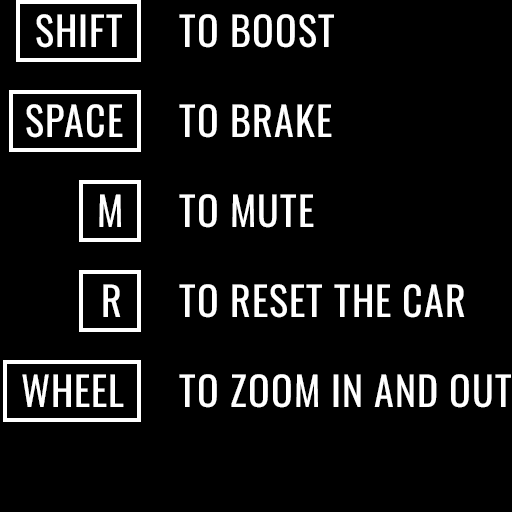
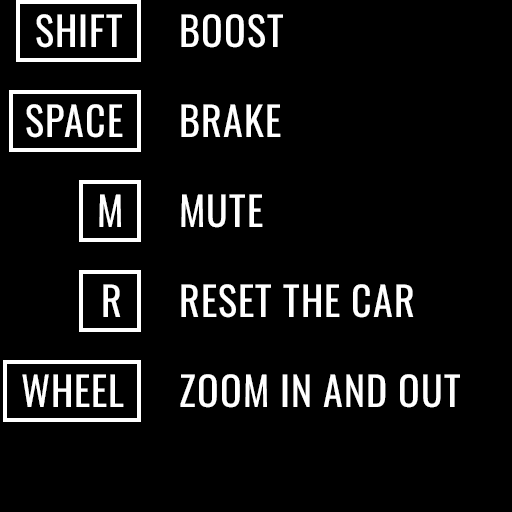
:sparkles: Intro > Other instructions > Add reveal and update text

diff --git a/src/javascript/World/Sections/IntroSection.js b/src/javascript/World/Sections/IntroSection.js
@@ -137,7 +137,7 @@ export default class IntroSection
         this.otherInstructions.label.texture.magFilter = THREE.NearestFilter
         this.otherInstructions.label.texture.minFilter = THREE.LinearFilter
 
-        this.otherInstructions.label.material = new THREE.MeshBasicMaterial({ transparent: true, alphaMap: this.otherInstructions.label.texture, color: 0xffffff, depthWrite: false })
+        this.otherInstructions.label.material = new THREE.MeshBasicMaterial({ transparent: true, alphaMap: this.otherInstructions.label.texture, color: 0xffffff, depthWrite: false, opacity: 0 })
 
         this.otherInstructions.label.mesh = new THREE.Mesh(this.otherInstructions.label.geometry, this.otherInstructions.label.material)
         this.otherInstructions.label.mesh.matrixAutoUpdate = false

diff --git a/src/javascript/World/index.js b/src/javascript/World/index.js
@@ -84,6 +84,7 @@ export default class
             TweenLite.fromTo(this.reveal, 3, { floorShadowsProgress: 0 }, { floorShadowsProgress: 1, delay: 0.5 })
             TweenLite.fromTo(this.shadows, 3, { alpha: 0 }, { alpha: 0.5, delay: 0.5 })
             TweenLite.fromTo(this.sections.intro.instructions.arrows.label.material, 0.3, { opacity: 0 }, { opacity: 1, delay: 0.5 })
+            TweenLite.fromTo(this.sections.intro.otherInstructions.label.material, 0.3, { opacity: 0 }, { opacity: 1, delay: 0.75 })
 
             // Car
             this.physics.car.chassis.body.sleep()
